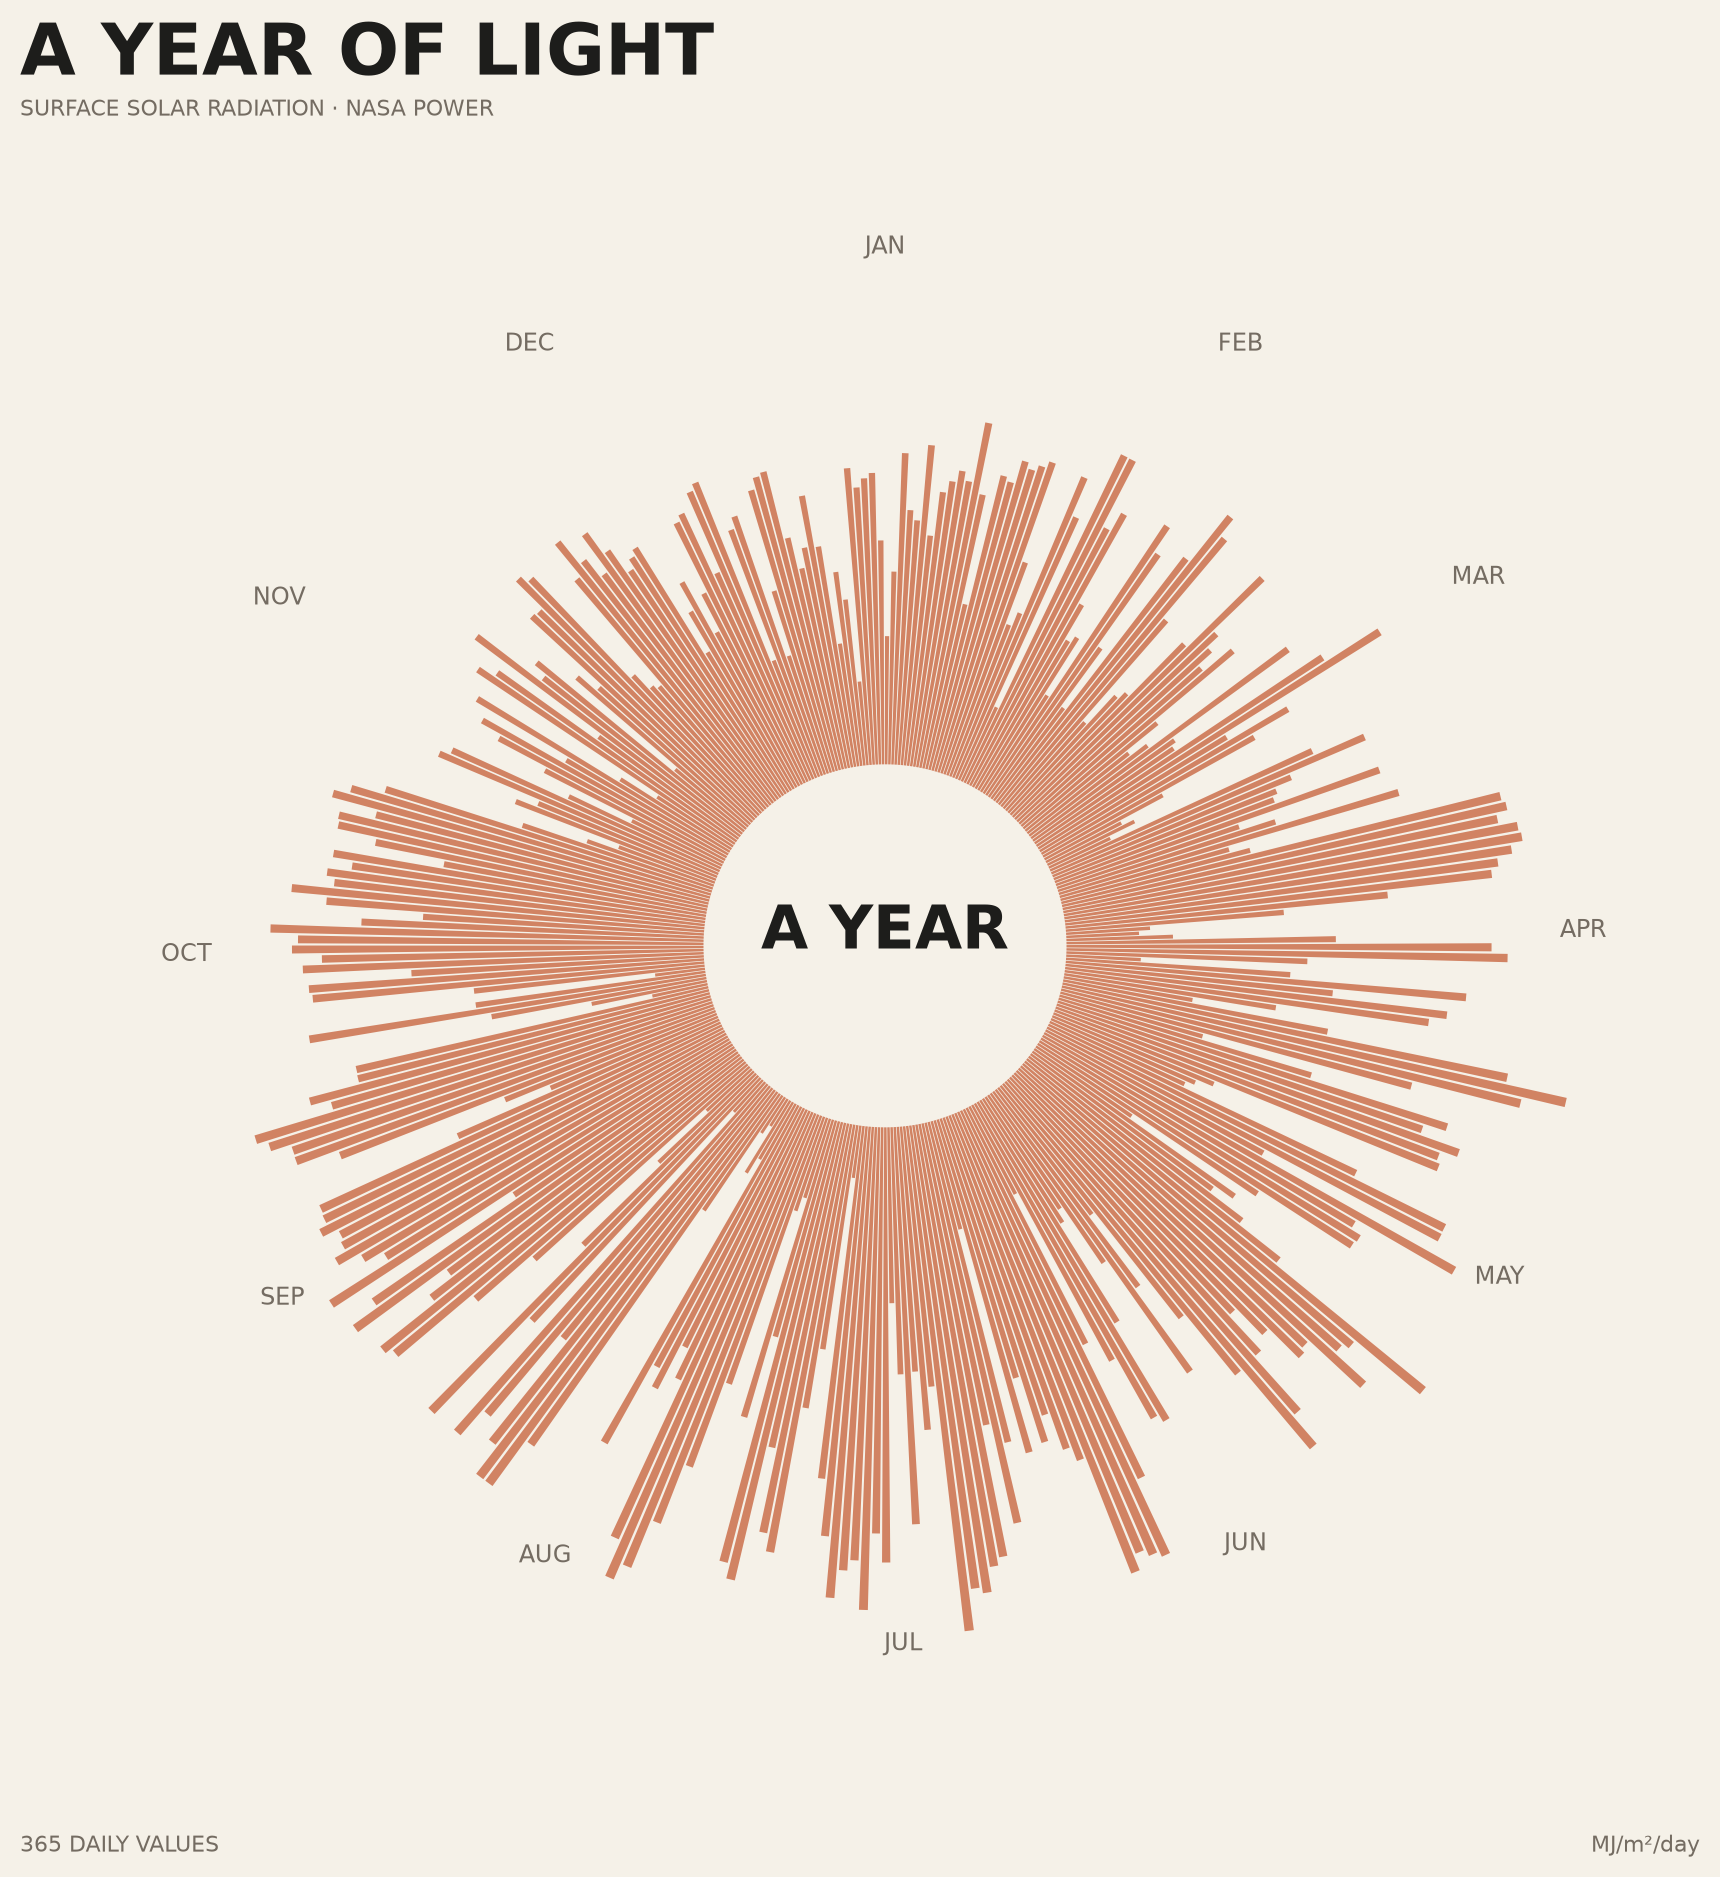
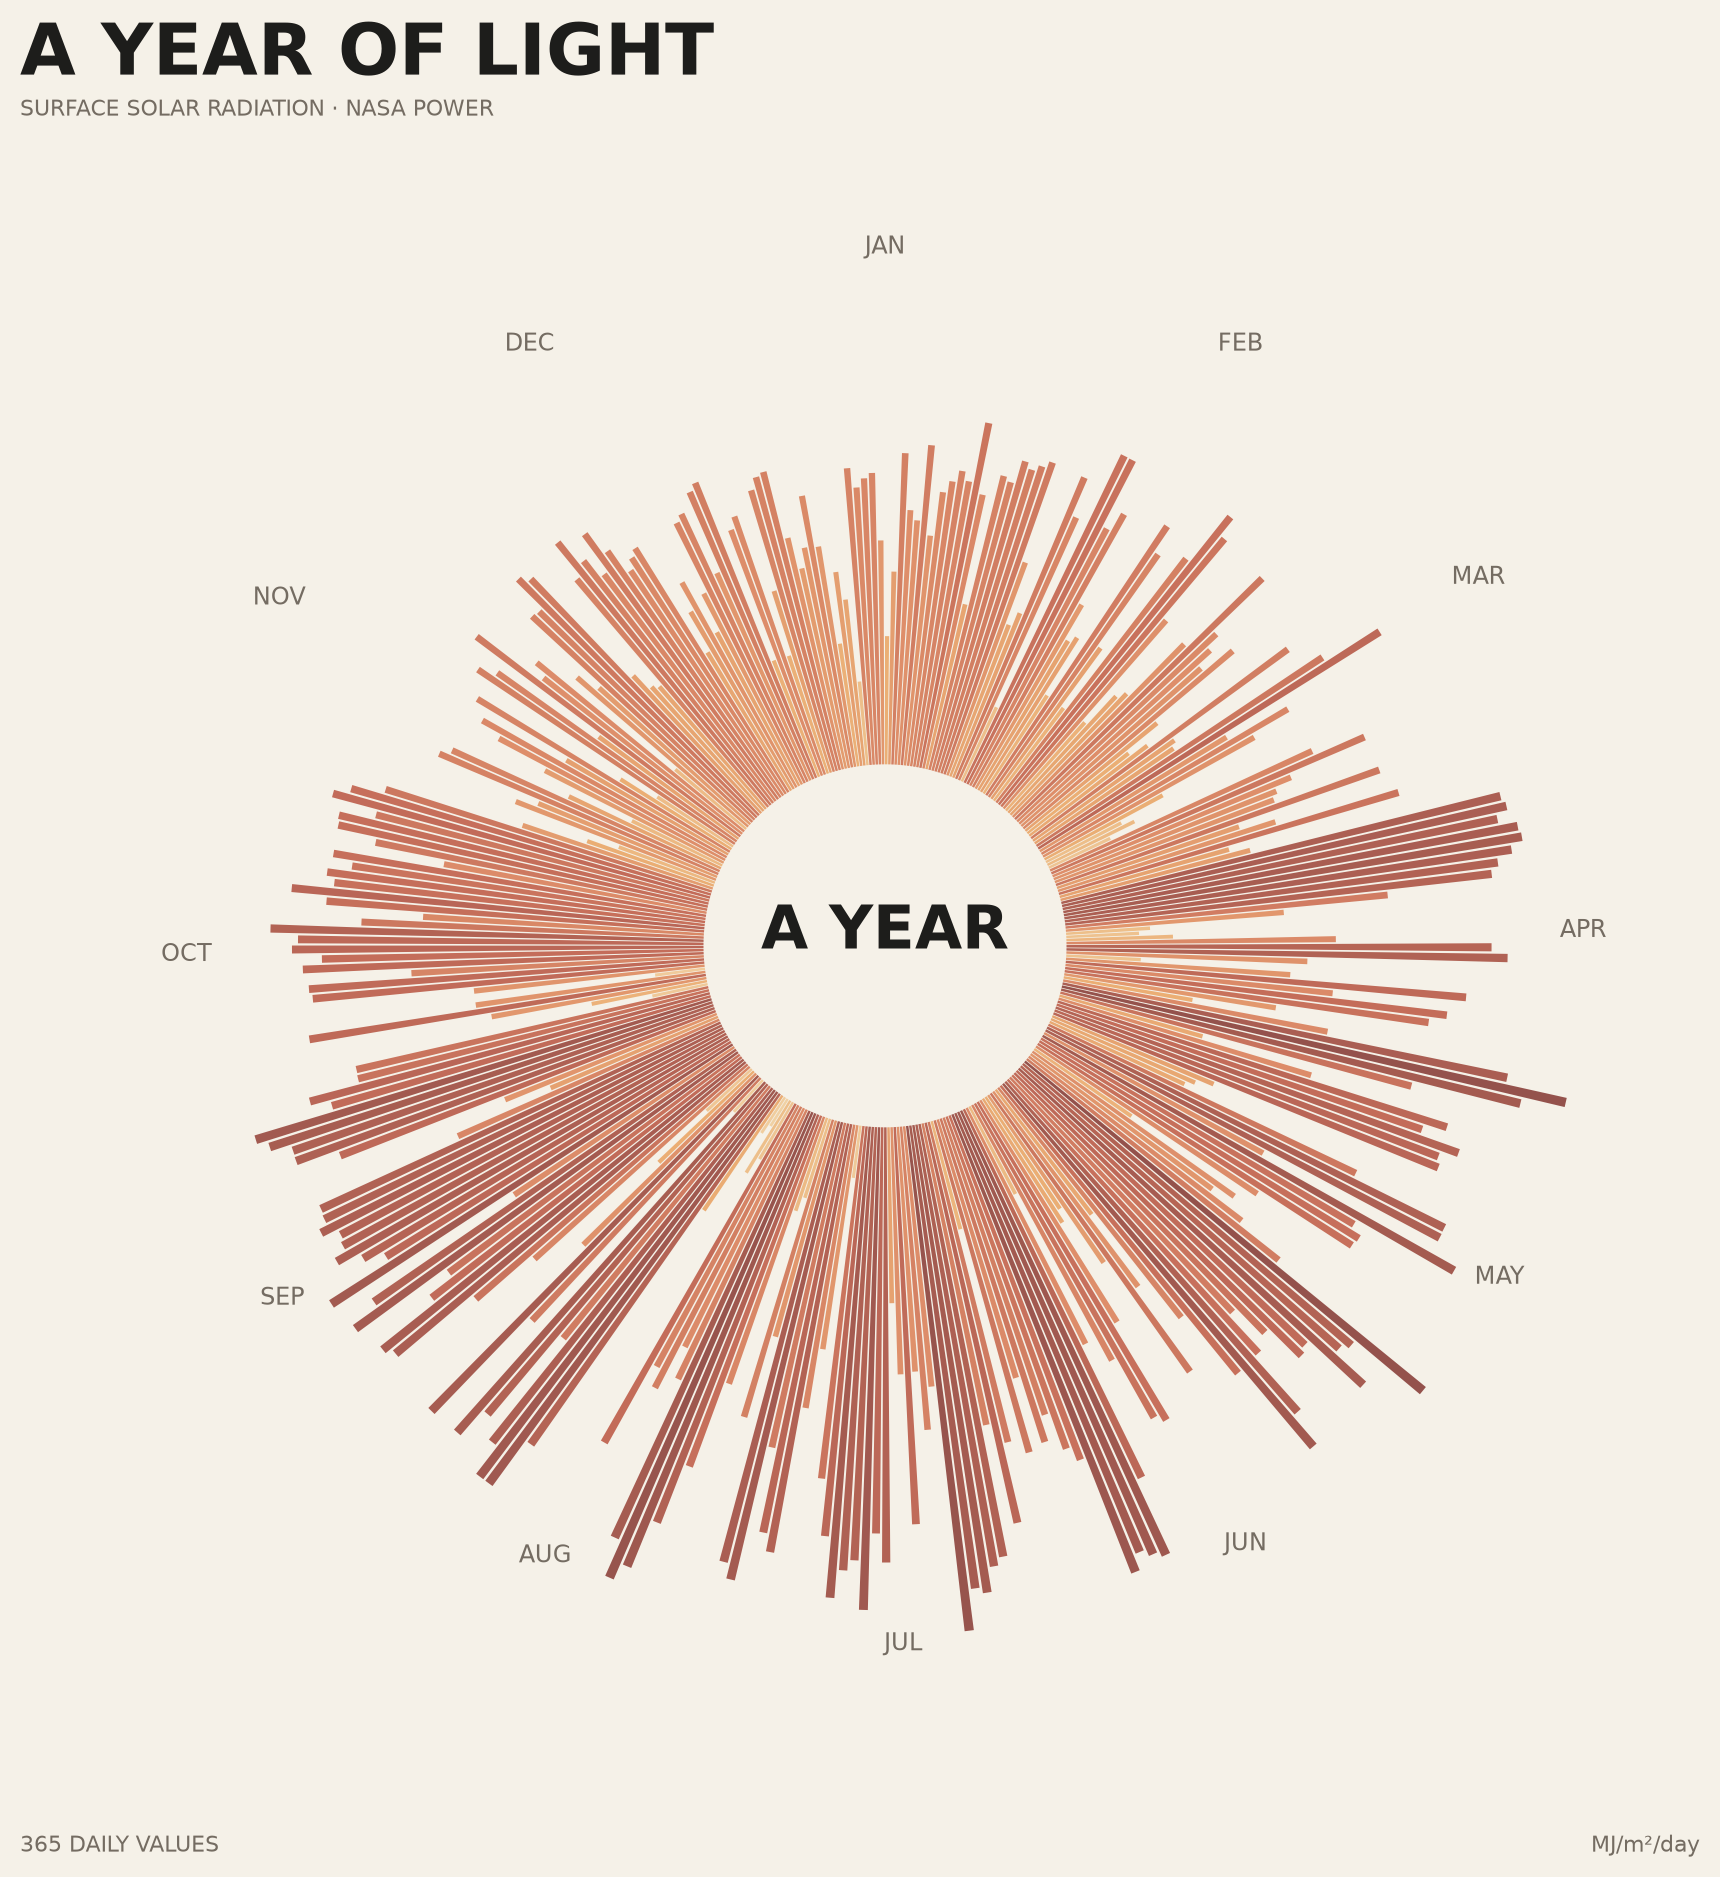
Refine the year of light

Changed region(s): [[0.1541, 0.3399, 0.8936, 0.8652], [0.3081, 0.309, 0.5238, 0.4635], [0.7395, 0.3399, 0.8012, 0.3708]]

diff --git a/plot.py b/plot.py
@@ -20,6 +20,7 @@ from datetime import datetime
 from pathlib import Path
 
 import matplotlib.pyplot as plt
+import matplotlib as mpl
 
 
 # ============================================================
@@ -41,10 +42,21 @@ LABEL_RADIUS = 6.35
 
 # Colours
 BACKGROUND = "#F5F1E8"
-BAR_COLOR = "#C8643E"
+COLOR_STOPS = [
+    "#F2D7A7",
+    "#E9A05B",
+    "#D9784E",
+    "#B94F3A",
+    "#7F2F2A",
+]
 TEXT_COLOR = "#1D1D1B"
 SECONDARY_TEXT = "#746C62"
 CENTRE_COLOR = "#F5F1E8"
+
+SOLAR_CMAP = mpl.colors.LinearSegmentedColormap.from_list(
+    "solar_light",
+    COLOR_STOPS
+)
 
 # Typography
 TITLE_SIZE = 26
@@ -157,15 +169,19 @@ def draw_day(ax, day_of_year, value, maximum):
     # DRAW
     # --------------------------------------------------------
 
+    color = SOLAR_CMAP(
+        value / maximum
+    )
+
     ax.bar(
         angle,
         height,
         width=(
-            2 * math.pi / 365 * 0.78
+        2 * math.pi / 365 * 0.78
         ),
         bottom=INNER_RADIUS,
-        color=BAR_COLOR,
-        alpha=0.78,
+        color=color,
+        alpha=0.82,
         linewidth=0,
         align="edge",
     )
